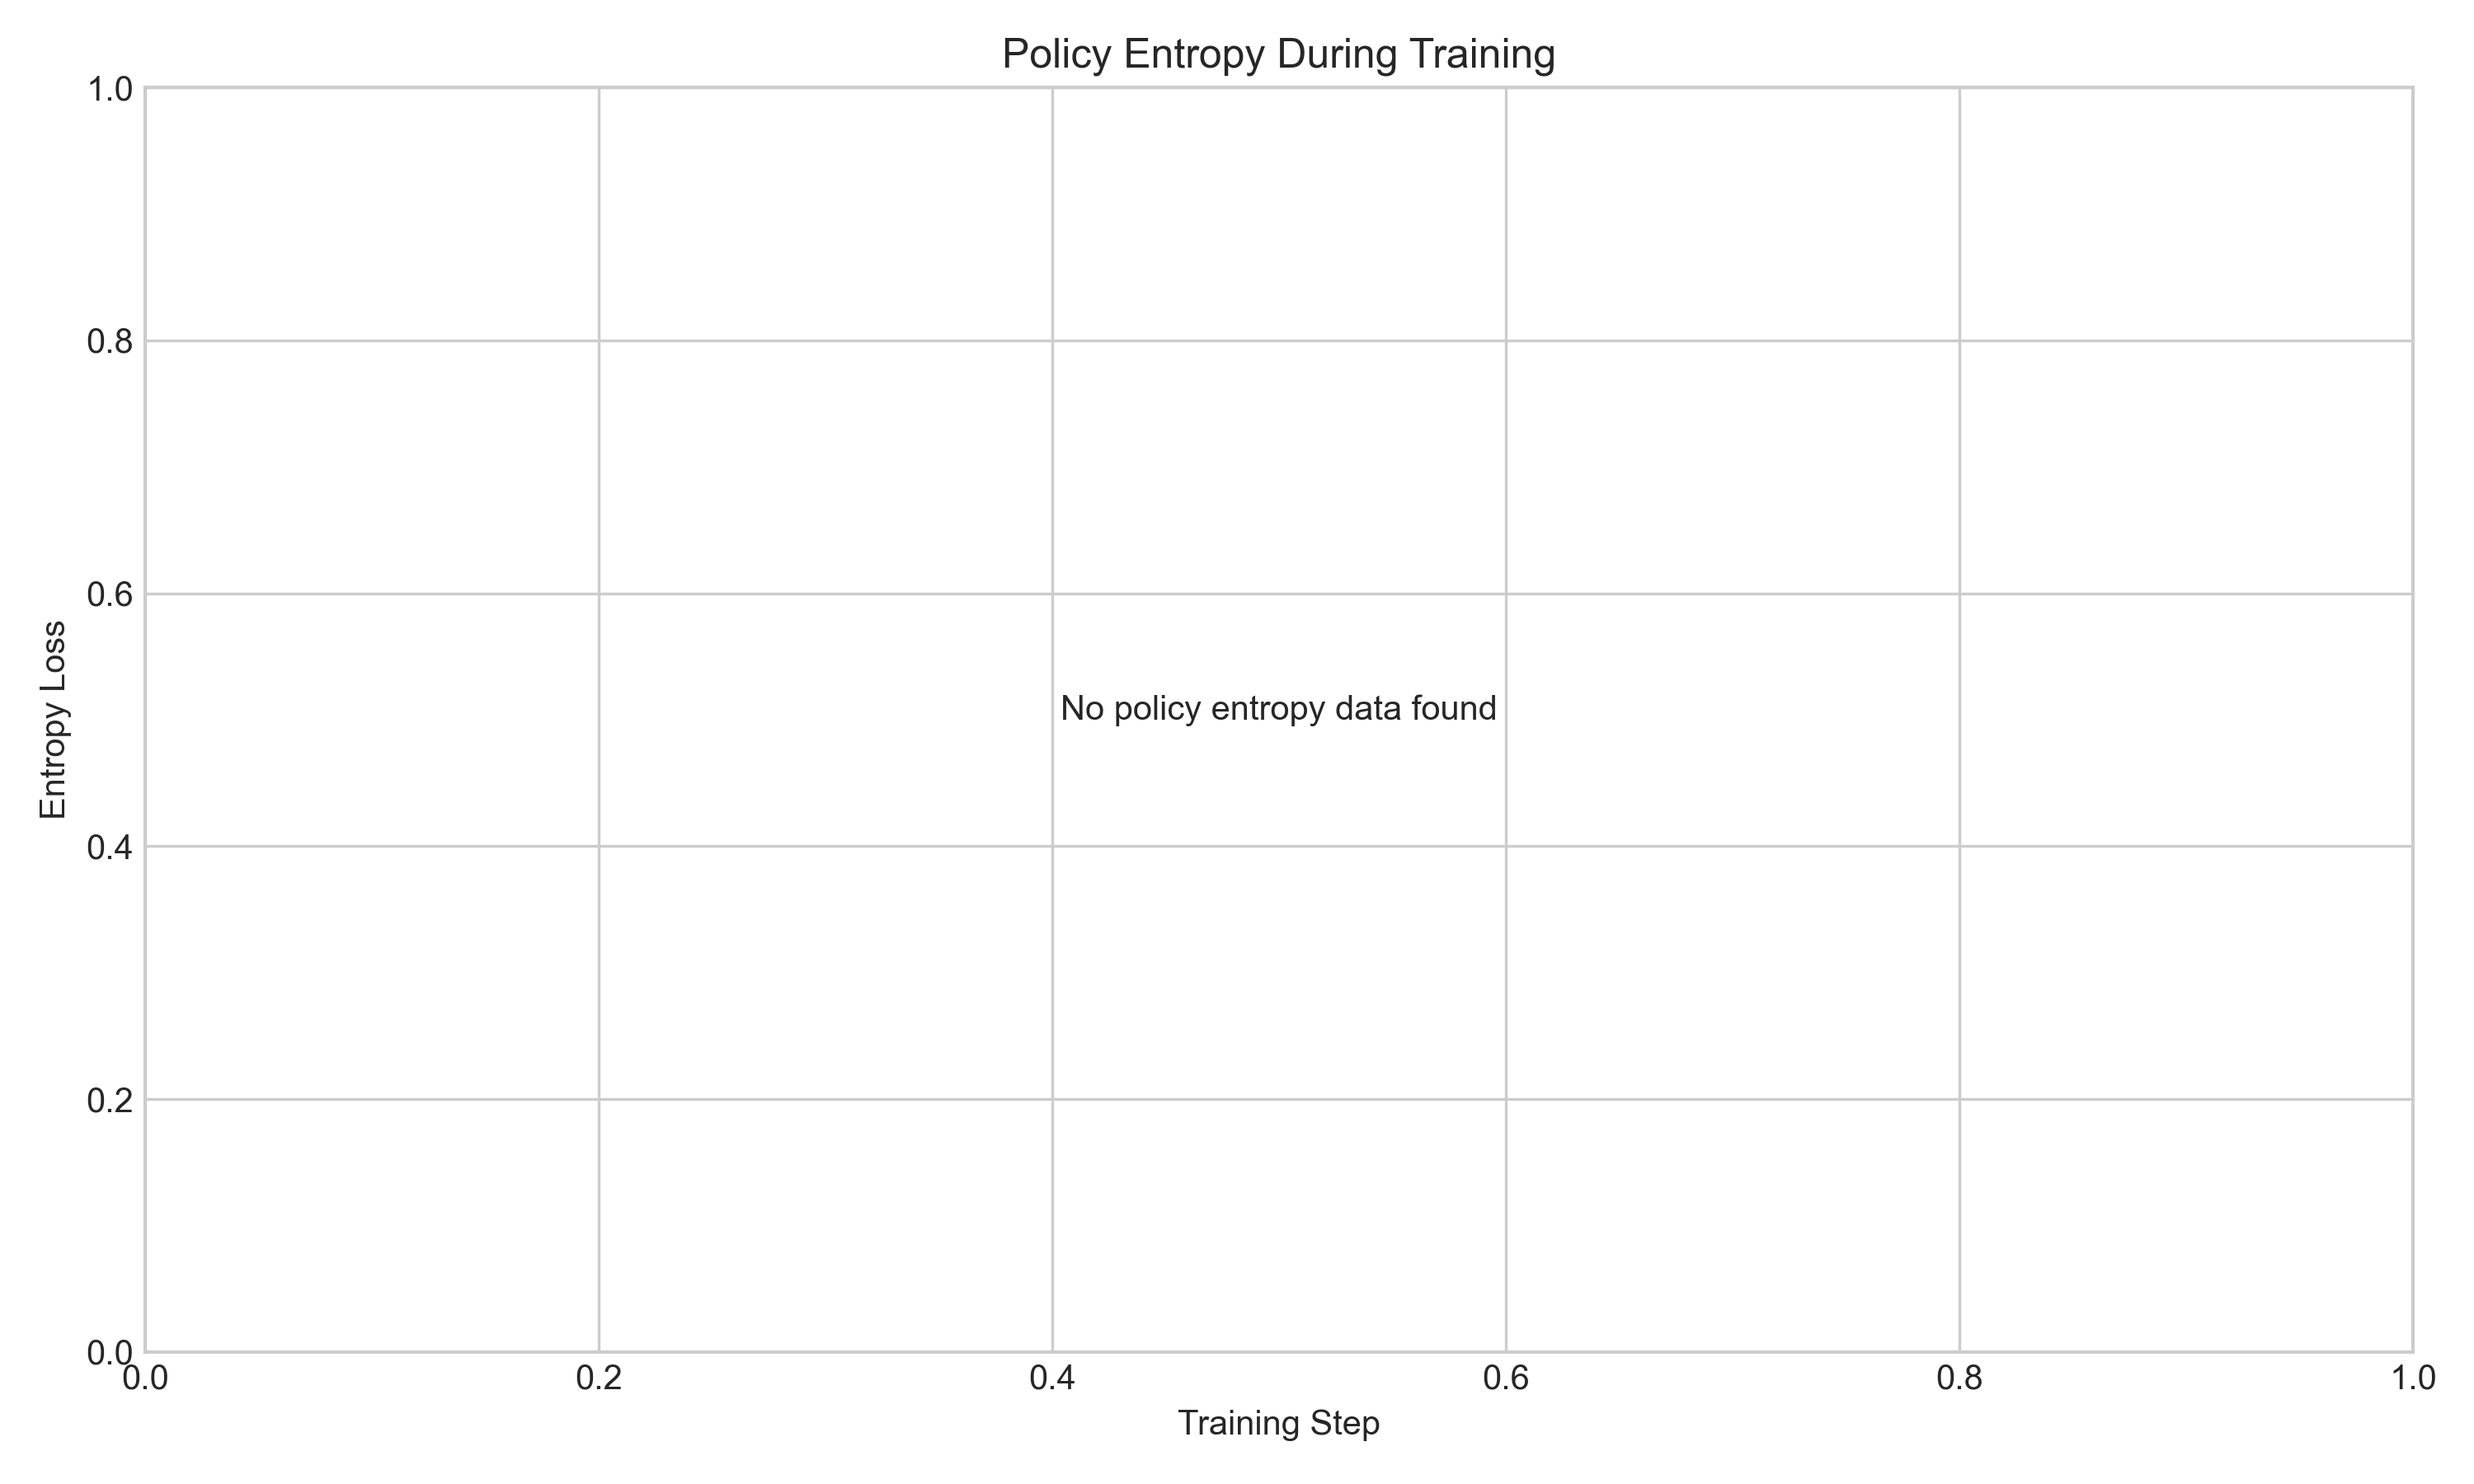
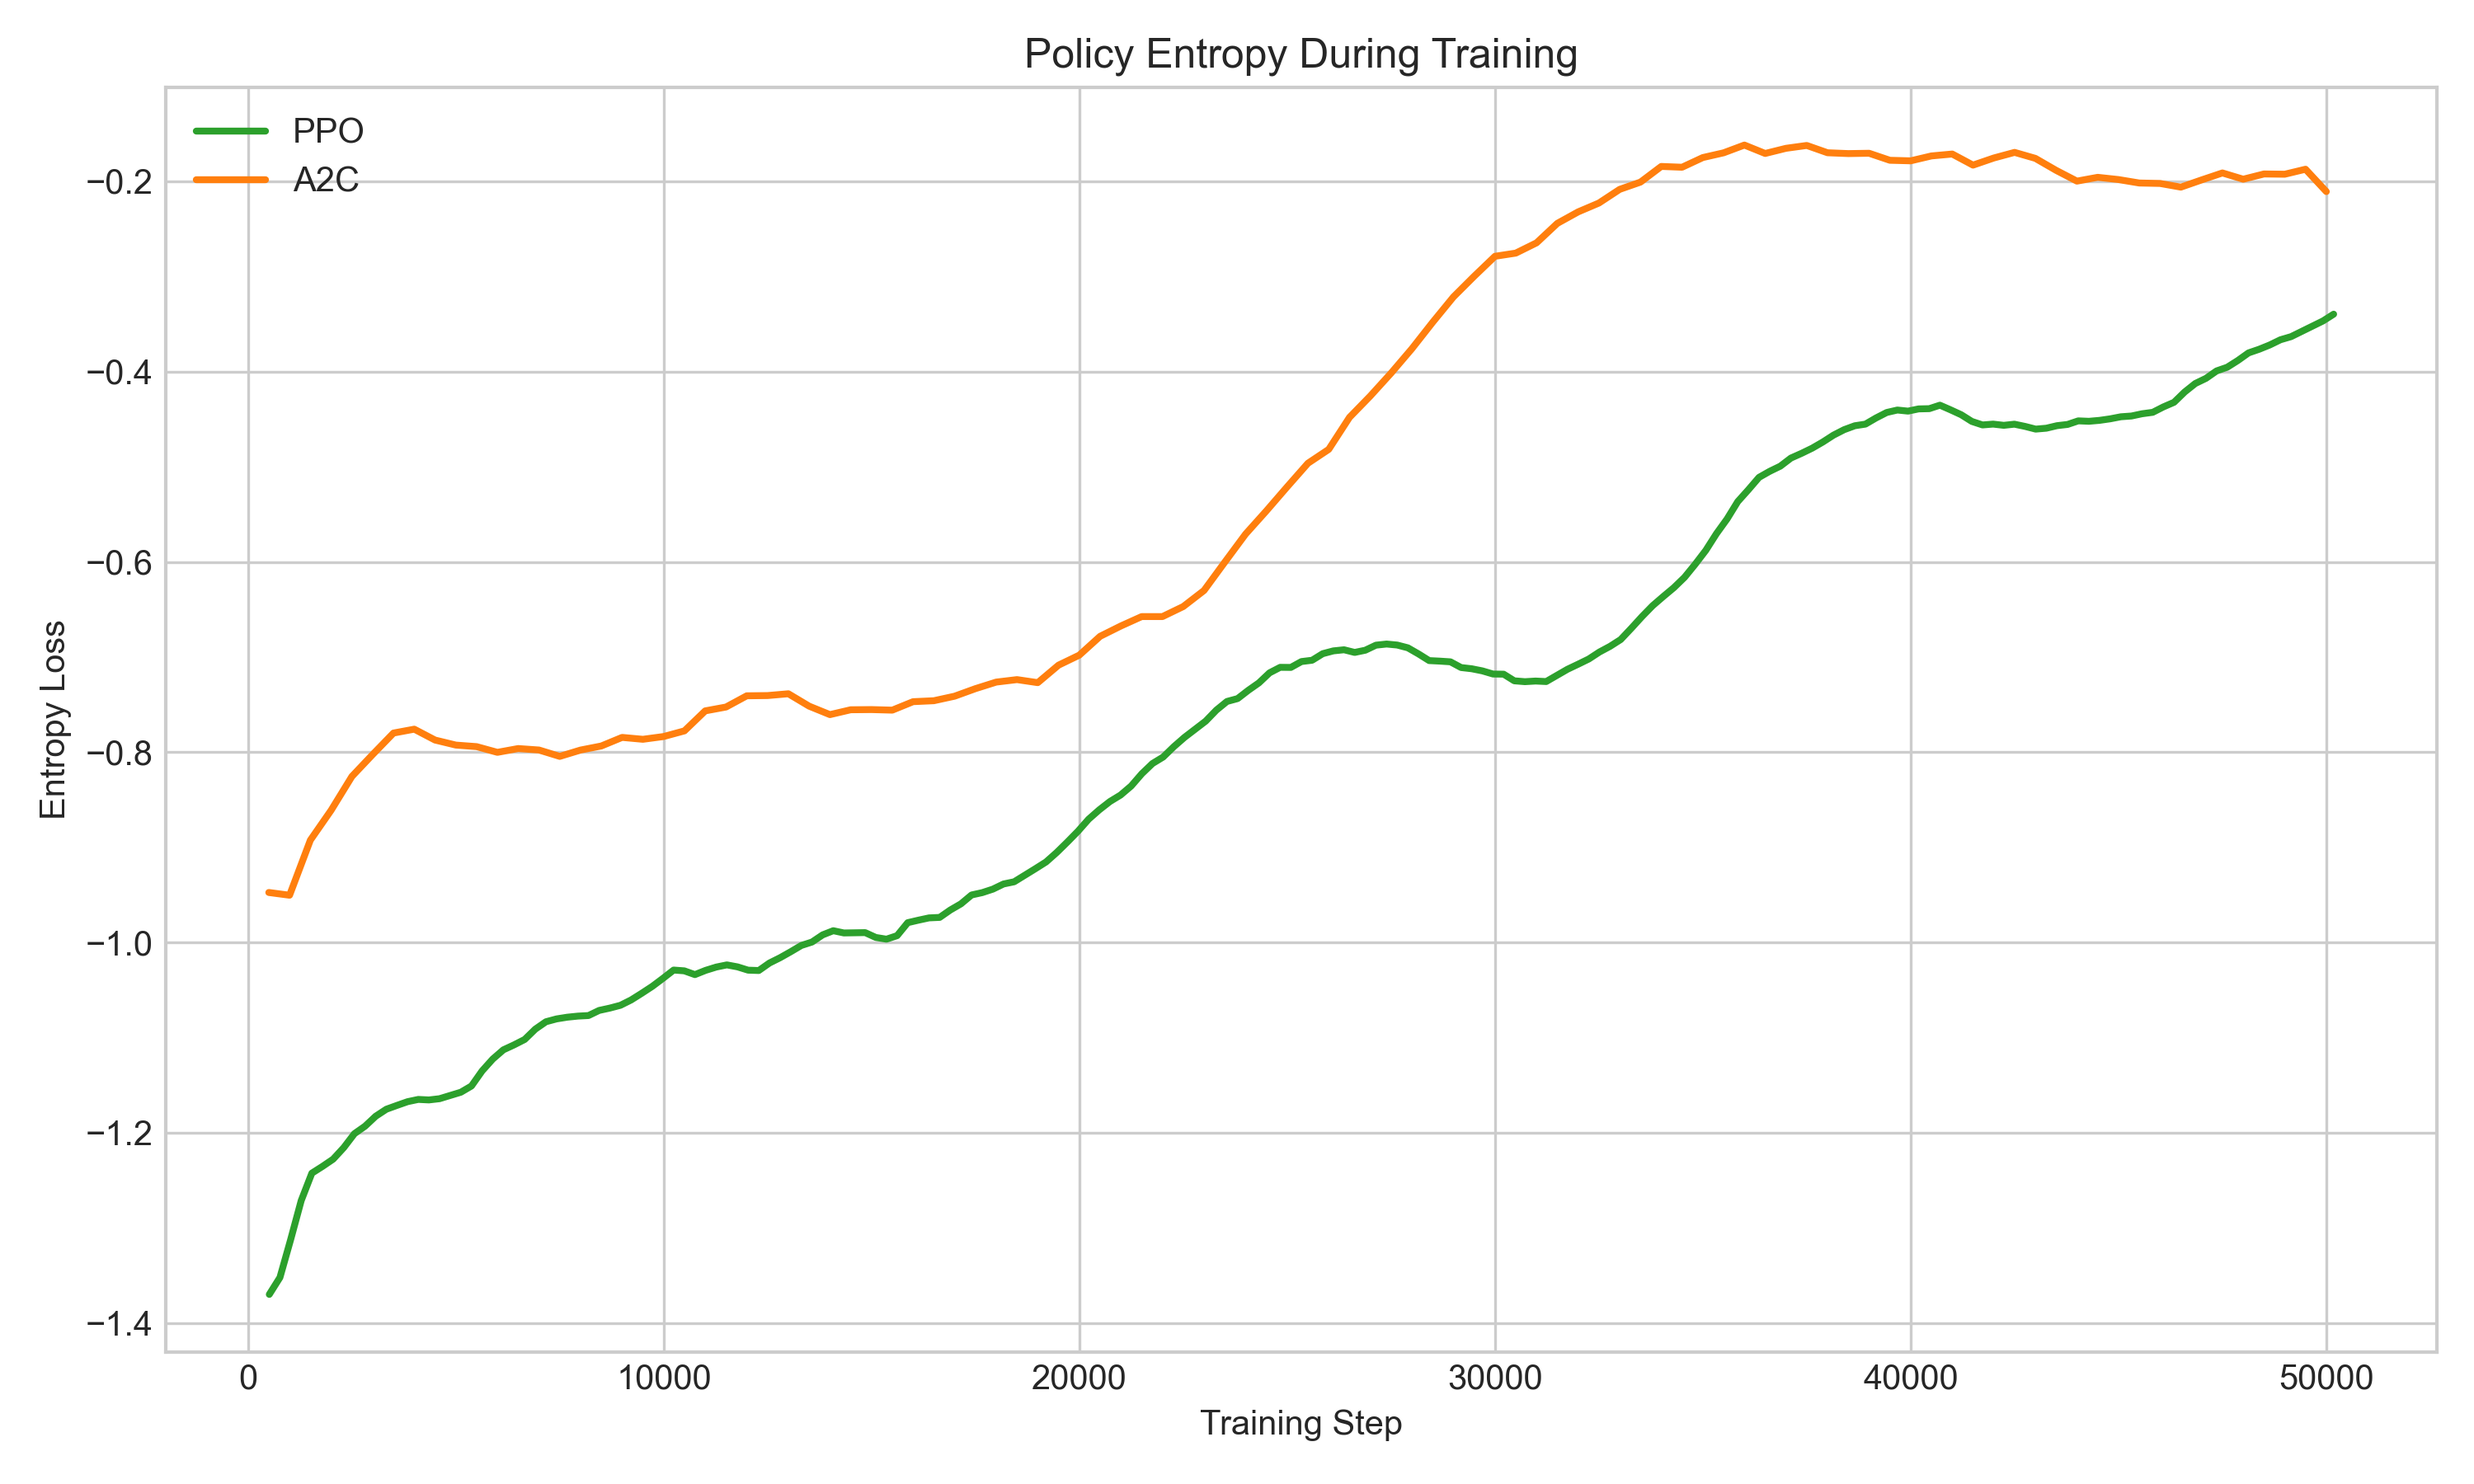
fixed wrong folder pather for policy entropy curve files

diff --git a/main.py b/main.py
@@ -2,6 +2,7 @@ import argparse
 import time
 import sys
 import gymnasium as gym
+from stable_baselines3 import DQN
 import environment
 
 
@@ -9,6 +10,10 @@ def run_simulation():
     print("  AI Fleet Road Safety Monitor - Simulation Mode")
 
     env = gym.make("DriverFatigue-v0", render_mode="human")
+
+    model = DQN.load("models/dqn/dqn_run_1", device="cpu")
+    print("Loaded trained agent: models/dqn/dqn_run_1.zip\n")
+
     obs, _ = env.reset()
 
     done = False
@@ -18,16 +23,8 @@ def run_simulation():
     print("Starting Driver Shift Simulation...\n")
 
     while not done:
-        perclos = obs[0]
-
-        if perclos < 0.35:
-            action = 0
-        elif perclos < 0.65:
-            action = 1
-        elif perclos < 0.85:
-            action = 2
-        else:
-            action = 3
+        action, _states = model.predict(obs, deterministic=True)
+        action = int(action)
 
         obs, reward, terminated, truncated, info = env.step(action)
         env.render()

diff --git a/training/evaluate_and_plot.py b/training/evaluate_and_plot.py
@@ -265,7 +265,7 @@ def generate_report_plots():
         ("A2C", "#ff7f0e")
     ]:
         entropy_data = load_tensorboard_scalar(
-            f"logs/{algo.lower()}_tensorboard/{algo}_Run_{best_runs[algo]}_1",
+            f"logs/pg_tensorboard/{algo}_Run_{best_runs[algo]}_1",
             "train/entropy_loss"
         )
         if entropy_data is not None:
